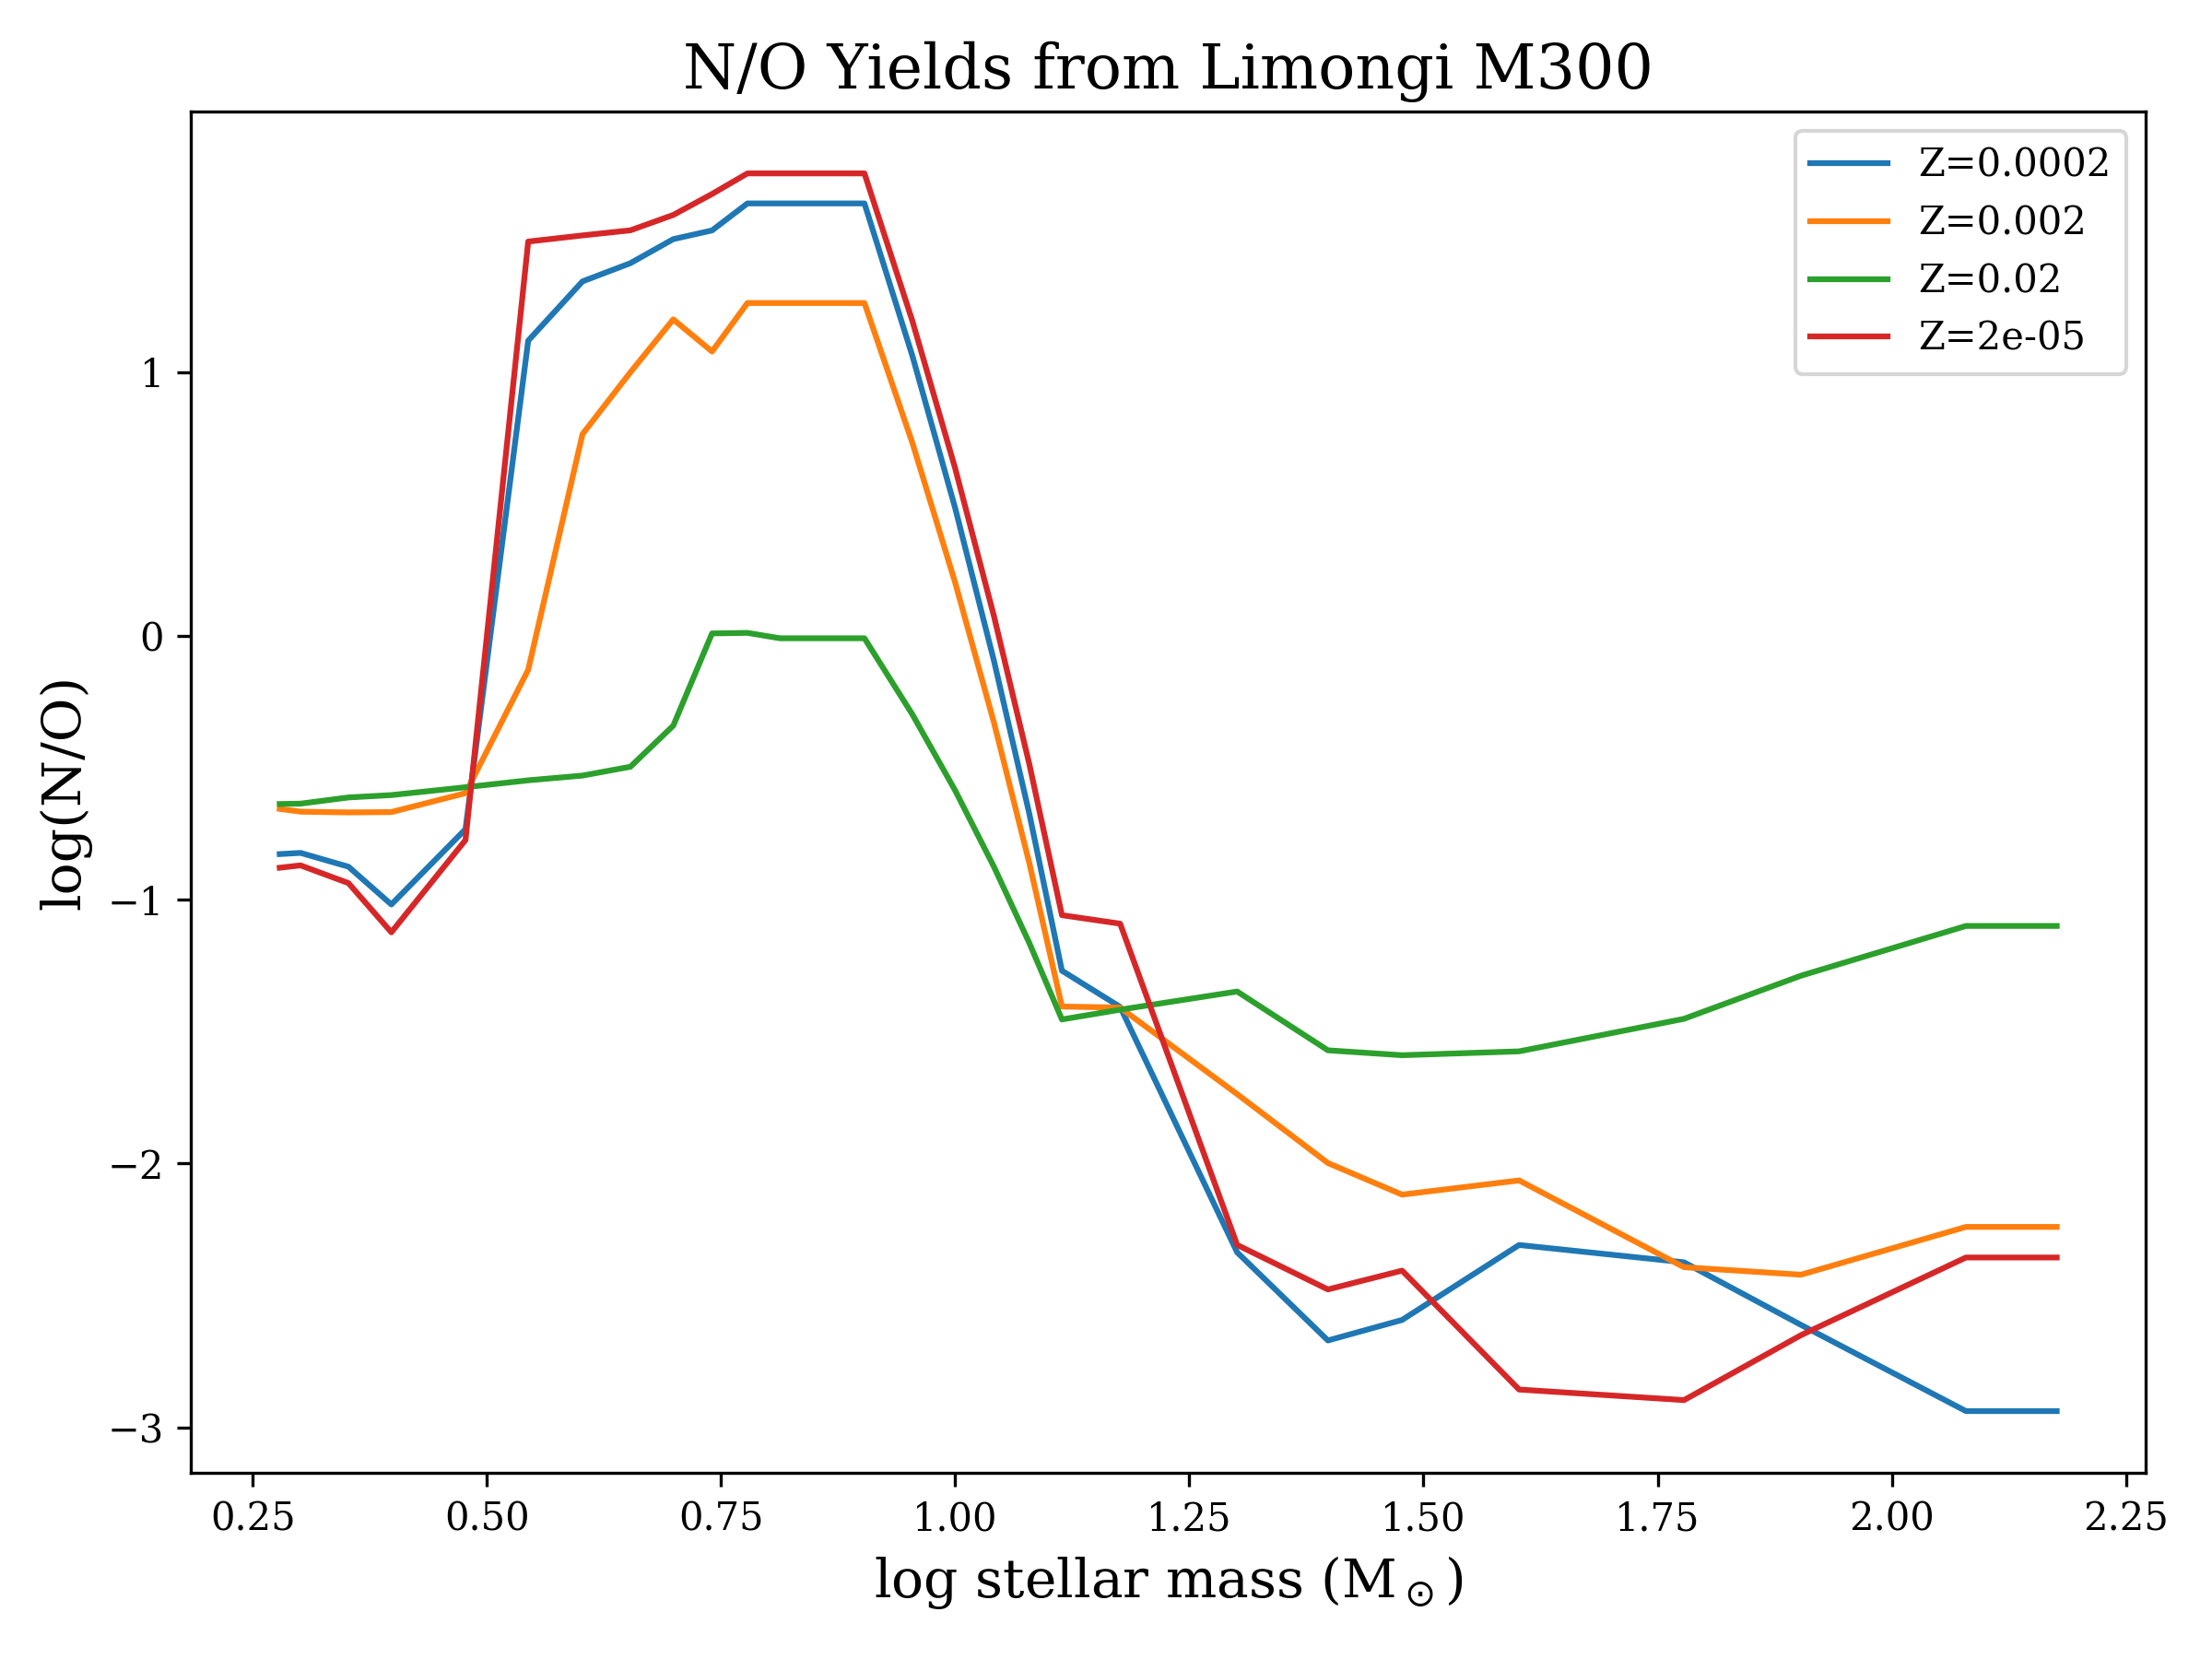
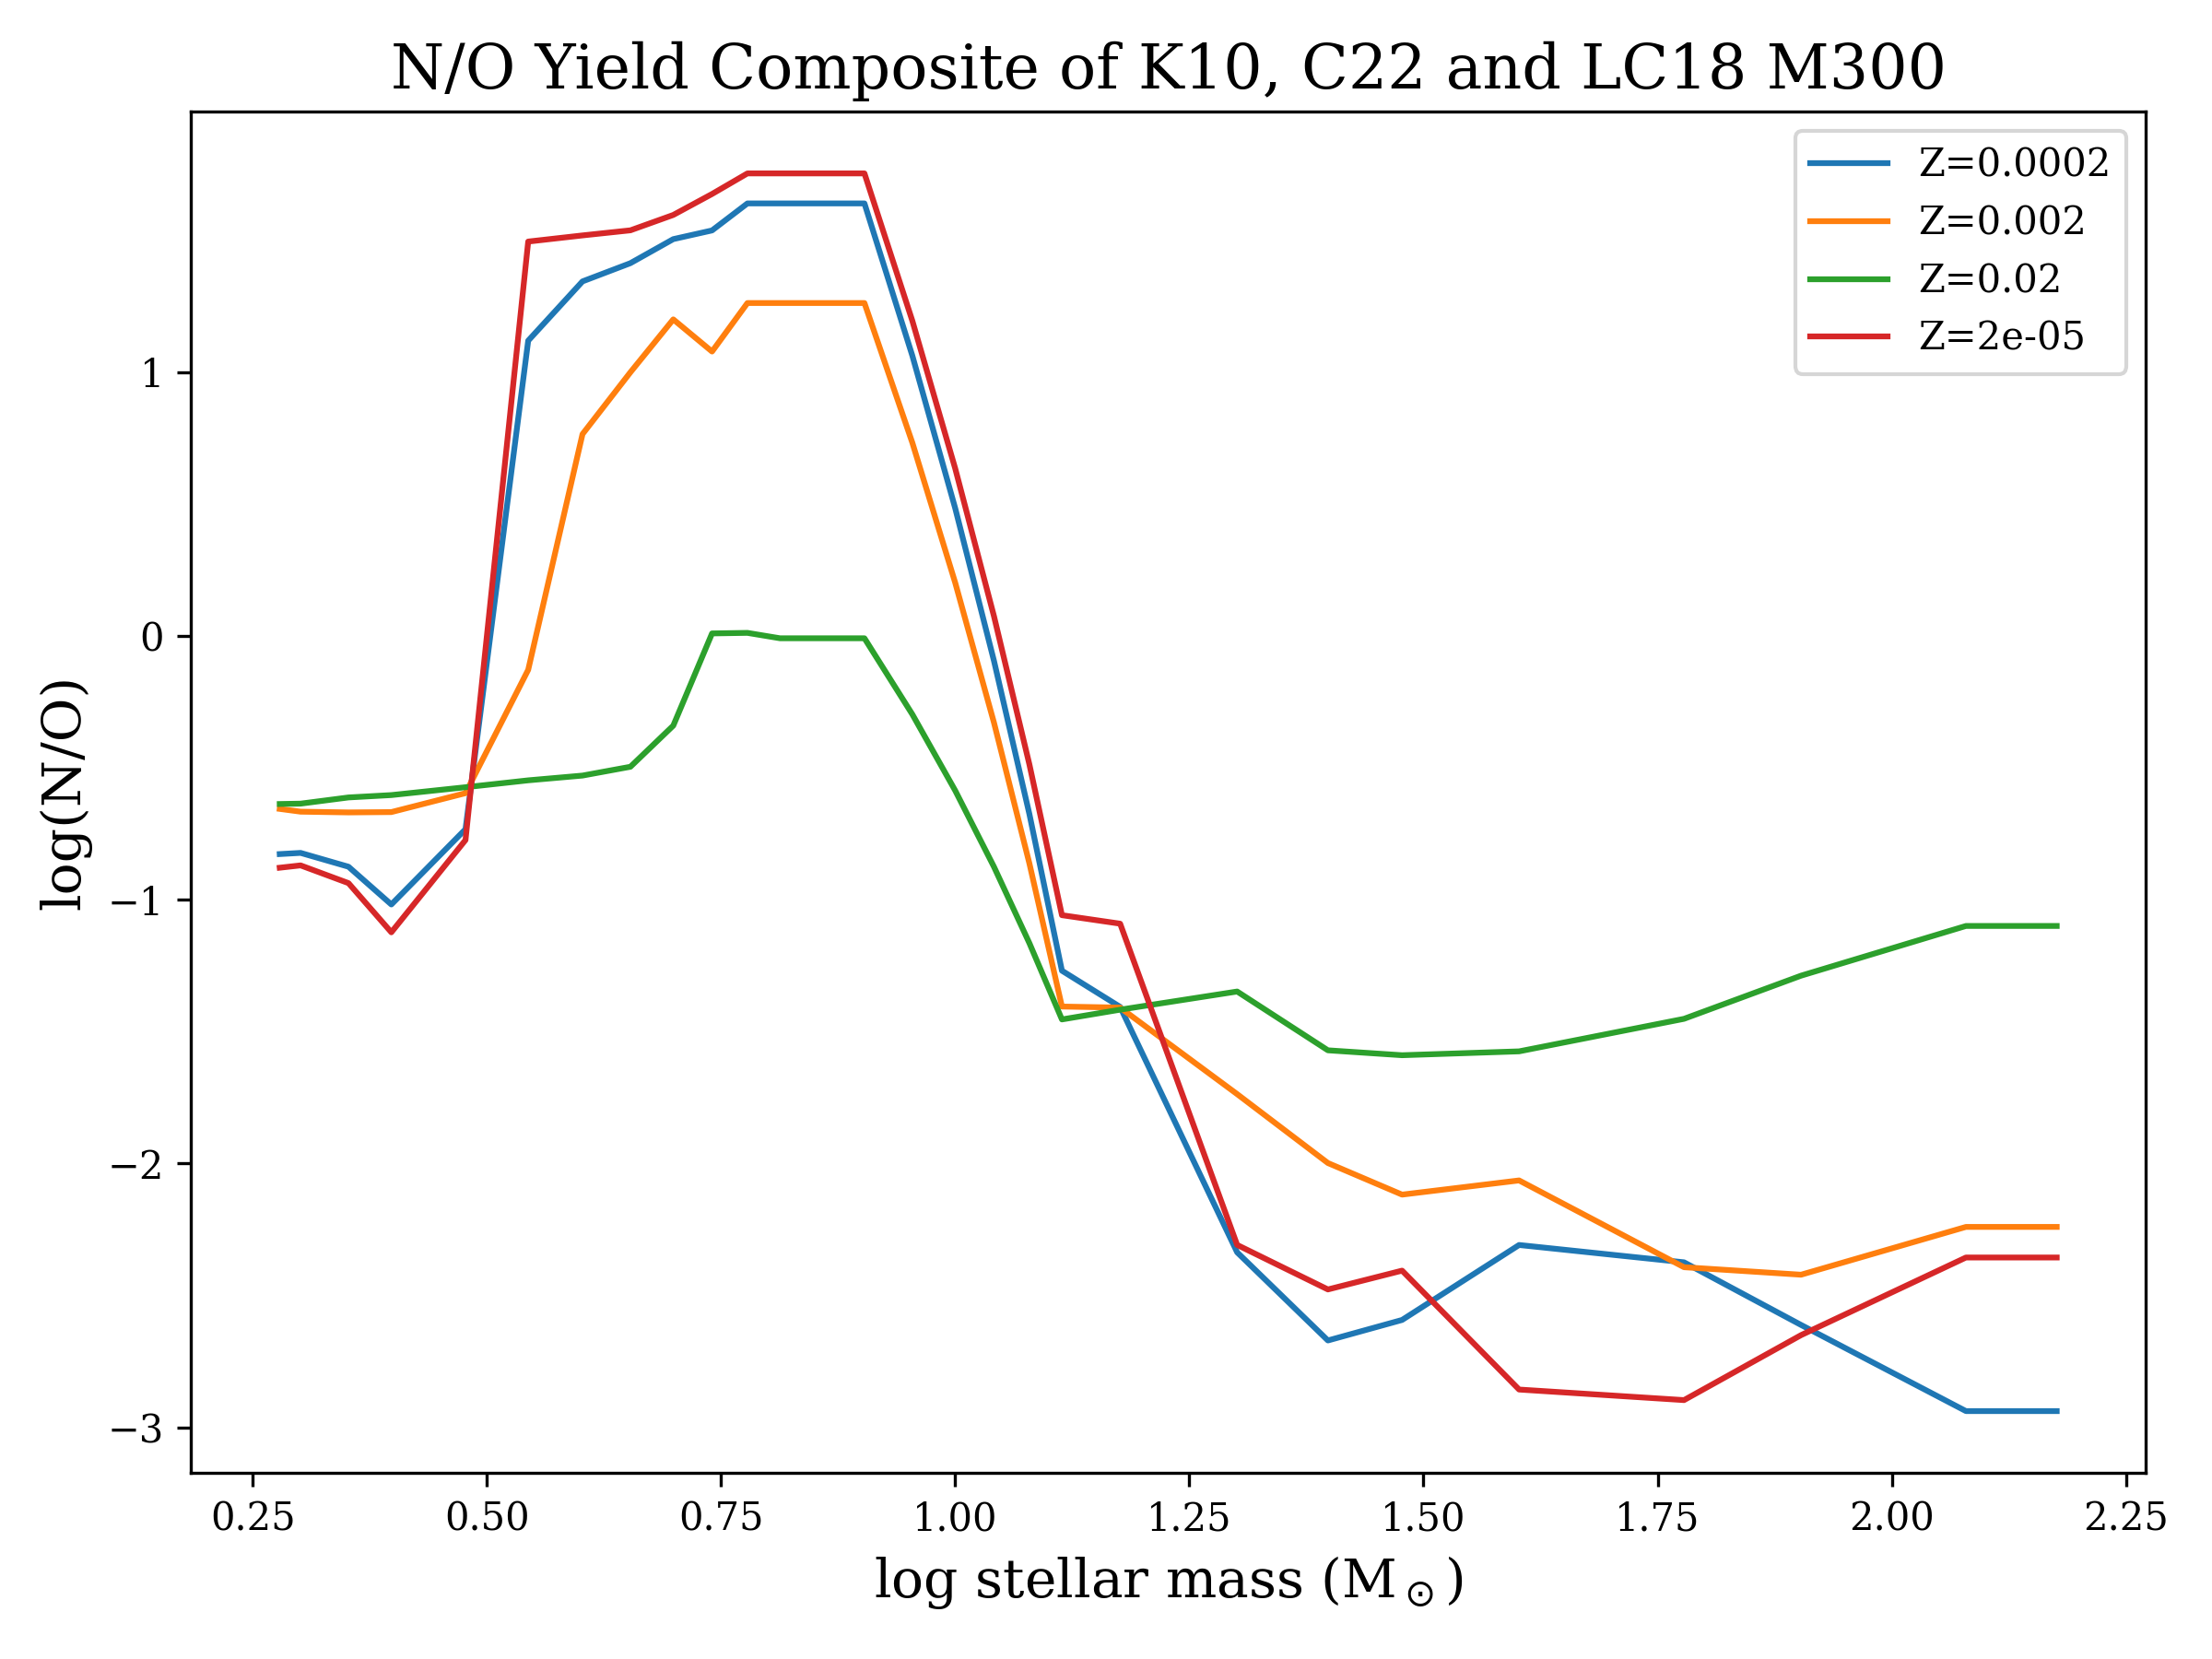
Made new plots

Changed region(s): [[0.1875, 0.0311, 0.875, 0.0622]]

diff --git a/IMFs_playground/kroupa-imfs-different-a modified.py b/IMFs_playground/kroupa-imfs-different-a modified.py
@@ -1,0 +1,86 @@
+from scipy.integrate import quad
+import numpy as np
+import matplotlib.pyplot as plt
+import matplotlib.ticker
+
+masses = np.logspace(-1.3, 2.5, 500)
+alpha3 = 2.3
+def kroupa_imf_unnormalized(mass, alpha3):  # there is no time dependence for Kroupa IMF
+        if mass < 0.08:
+            return 0
+        elif mass < 0.5:
+            return 2*mass**(-1.3)
+        elif mass < 1:
+            return mass**(-2.3)
+        elif mass < 150:
+            return mass**(-alpha3)
+        else:
+            return 0
+
+def mass_function(mass):
+    return kroupa_imf_unnormalized(mass, alpha3) * mass
+
+integrated_mass = quad(mass_function, 0.1, 150, limit=50)[0]
+
+def kroupa_imf_canon(mass):  # normalized to a population with mass = 1 Msun
+    if mass < 0.5:
+        return 2*mass**(-1.3)/integrated_mass
+    elif mass < 1:
+        return mass**(-2.3)/integrated_mass
+    elif mass < 150:
+        return mass**(-2.3)/integrated_mass
+
+plt.figure(figsize=(8, 6))
+plt.rc('font', family='serif')
+matplotlib.rcParams['xtick.minor.size'] = 0
+matplotlib.rcParams['xtick.minor.width'] = 0
+matplotlib.rcParams['ytick.minor.size'] = 0
+matplotlib.rcParams['ytick.minor.width'] = 0
+cmap = plt.get_cmap('tab10')
+
+# collect handles but don't add labels here
+plt.loglog(masses, [kroupa_imf_canon(m) for m in masses],
+                 color="red", linestyle='--', zorder=10, lw=2, label='Canonical Kroupa IMF')
+
+def kroupa_imf(mass):  # normalized to a population with mass = 1 Msun
+    if mass < 0.5:
+        return mass**(0)/integrated_mass
+    elif mass < 1:
+        return 0.7*mass**(-0.5)/integrated_mass
+    elif mass < 150:
+        return 0.7*mass**(-1.4)/integrated_mass
+ 
+plt.loglog(masses, [kroupa_imf(m) for m in masses],
+                    color='green', zorder=1, lw=2, label='Different slope')
+
+# plot the red dashed line last so it's on top / visible
+
+# create legend with the order you want (red dashed in the middle)
+# plt.legend([handles[0], hd], # handles[2]],
+#            [f"Kroupa IMF (α3={alpha3[0]})",
+#             "Kroupa IMF (α3=2.3)"])
+            # f"Kroupa IMF (α3={alpha3[2]})"])
+
+plt.xlabel("Stellar Mass ($\\mathrm{M_{\\odot}}$)", fontsize=12)
+plt.ylabel("IMF ($\\mathrm{\\xi}$)", fontsize=12)
+# plt.savefig("./IMF_Kroupa_3a.pdf", dpi=300)
+plt.tight_layout()
+plt.show()
+
+def kroupa_imf_2001(mass):  # normalized to a population with mass = 1 Msun
+    # if mass < 0.08:
+    #     return 25*mass**(-0.3)/integrated_mass
+    if mass < 0.5:
+        return 2*mass**(-1.3)/integrated_mass
+    elif mass < 1:
+        return mass**(-2.3)/integrated_mass
+    elif mass < 150:
+        return mass**(-2.3)/integrated_mass
+
+plt.loglog(masses, [kroupa_imf_2001(m) for m in masses], color="purple", linestyle='-', zorder=10, lw=2, label="Kroupa IMF")
+plt.xlabel("Stellar Mass ($\\mathrm{M_{\\odot}}$)", fontsize=12)
+plt.ylabel("IMF ($\\mathrm{\\xi}$)", fontsize=12)
+plt.legend()
+plt.savefig("./IMF_Kroupa_2001_without_bd.png", dpi=300)
+plt.tight_layout()
+# plt.show()